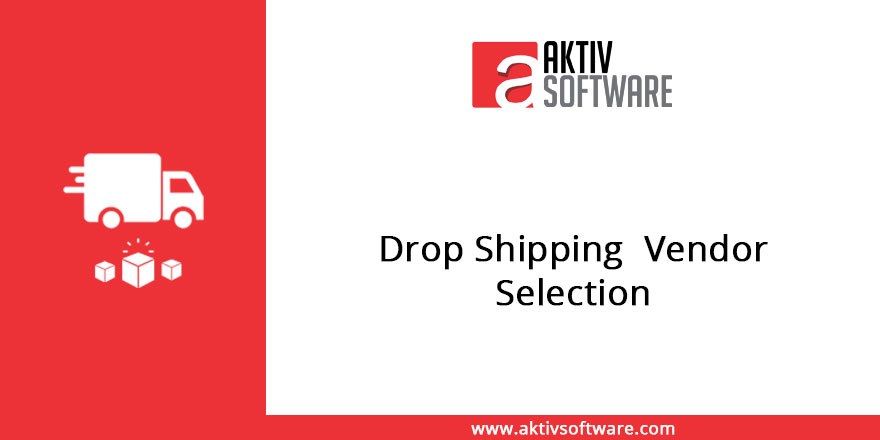
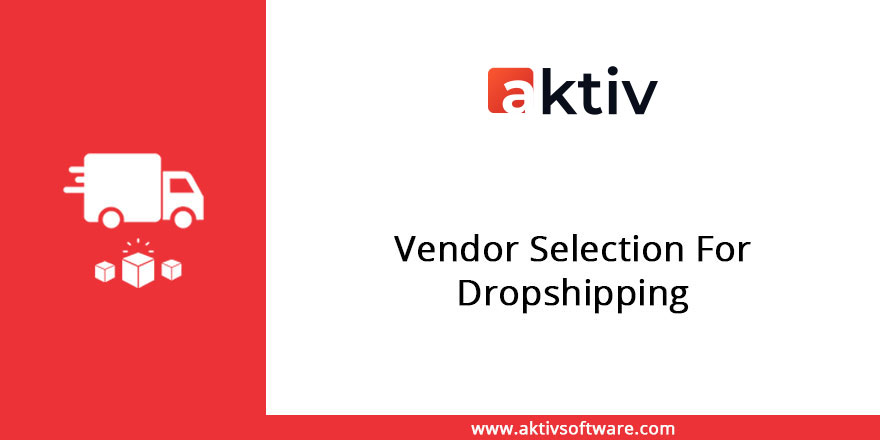
[commit] commit in master branch

Changed region(s): [[0.4295, 0.5318, 0.8898, 0.7091], [0.5216, 0.0886, 0.767, 0.2659]]

diff --git a/vendor_selection/static/description/index.html b/vendor_selection/static/description/index.html
@@ -1,84 +1,110 @@
-<section class="oe_container oe_dark">
-	<div class="oe_row oe_padded">
+<section class="oe_container">
+    <div class="oe_row oe_centered">
+        <div class="oe_span_10 oe_centered">
+            <h4 class="oe_slogan" style="margin-left: 120px;"><b><span class="fa fa-star fa-spin"></span>
+                    Vendor Selection </span></b></h4>
+        </div>
+    </div>
 
-		<div class="panel-heading"
-			style="padding: 8px; font-weight: 300; font-size: 20px; background-color: #004460;">
-			<i class="fa fa-cog" style="color: white;"></i> <b
-				style="color: white;">Installation</b>
-		</div>
-		<h2 class="oe_slogan oe_mt16"></h2>
-		<a href="https://www.odoo.com/apps/modules/11.0/vendor_selection/">Install
-			"Vendor Selection" Module from odoo Apps.</a> <br />
-		<br />
-		<br />
-		<div class="panel-heading"
-			style="padding: 8px; font-weight: 300; font-size: 20px; background-color: #004460;">
-			<i class="fa fa-cog" style="color: white;"></i> <b
-				style="color: white;">How it Works </b>
-		</div>
+    <p align="left">In the default Odoo module user could not choose vendor of his/her choice. The Odoo’s flow chose the vendor mentioned first in the list and hence user had to pay the price which is mentioned by the first vendor even if it was higher than the price set by other vendors in the list.</p>
 
-		<h2 class="oe_slogan oe_mt16">Configure Dropshipping
-			Functionality from the Purchase</h2>
-		<div class="oe_span12">
-			<div class="oe_row_img">
-				<img class="oe_picture oe_screenshot" src="enable_dropshipping.png">
-			</div>
-		</div>
-		<p>
-			<br />
-		</p>
+    <p align="left">The Vendor Selection modules allows you to select the vendor of your choice for drop shipping. User having rights to manage the sale order can add vendors for particular product. After configuring Order specific routes, multi-step routes and dropshipping when user creates the order he/she can select from the list of vendors for the selected product.  The final quotation will display the original price of the product as set by the selected vendor.</p>
 
-		<h2 class="oe_slogan oe_mt16">Enable Routes from the sales and
-			inventory</h2>
-		<div class="oe_span12">
-			<div class="oe_row_img">
-				<img class="oe_picture oe_screenshot" src="enable_routes.png">
-			</div>
-		</div>
-		<p>
-			<br />
-		</p>
+    <p align="left">Here are the primary features accomplished in this module:</p>
+
+    <div class="oe_centered">
+        <ul>
+            <li>Admin can add vendors.</li>
+            <li>User can select a vendor from the available list of vendors.</li>
+            <li>User can also configure the drop shipping route to enable route functionality.</li>
+            <li>When clicked on create order user can see two new tabs under <b>Order Lines</b> i.e. Route and Vendor.</li>
+        </ul>
+    </div>
+
+    <div class="oe_row oe_centered">
+        <div class="oe_span_10 oe_centered">
+            <h4 class="oe_slogan" style="margin-left: 120px;"><b><span class="fa fa-star fa-spin"></span>
+                    Prerequisites before Installation </span></b></h4>
+        </div>
+    </div>
+    <p align="left">No prerequisites required.</p>
 
 
-		<h2 class="oe_slogan oe_mt16">Add Vendors in Product</h2>
-		<div class="oe_span12">
-			<div class="oe_row_img">
-				<img class="oe_picture oe_screenshot" src="product_vendor.png">
-			</div>
-		</div>
-		<p>
-			<br />
-		</p>
+    <div class="oe_row oe_centered">
+        <div class="oe_span_10 oe_centered">
+            <h4 class="oe_slogan" style="margin-left: 120px;"><b><span class="fa fa-star fa-spin"></span>
+                    Configurations </span></b></h4>
+        </div>
+    </div>
 
-		<h2 class="oe_slogan oe_mt16">Create Sale order and select drop
-			shipping in sale order line and confirm so</h2>
-		<div class="oe_span12">
-			<div class="oe_row_img">
-				<img class="oe_picture oe_screenshot" src="add_vendor_in_line.png">
-			</div>
-		</div>
-		<p>
-			<br />
-		</p>
+    <div class="oe_centered">
+        <p>Configure DropShipping Functionality from the Purchase.</p>
+    </div>
+    <div class="oe_row oe_centered">
+        <div class="oe_span12">
+            <img src="enable_dropshipping.png" style="width: 100%;"/>
+        </div>
+    </div>
 
-		<h2 class="oe_slogan oe_mt16">Purchase order</h2>
-		<div class="oe_span12">
-			<div class="oe_row_img">
-				<img class="oe_picture oe_screenshot" src="po_tree.png">
-			</div>
-		</div>
-		<p>
-			<br />
-		</p>
-	</div>
+    <div class="oe_centered">
+        <p>Enable “Routes” from the Sales and Inventory.</p>
+    </div>
+    <div class="oe_row oe_centered">
+        <div class="oe_span12">
+            <img src="enable_routes.png" style="width: 100%;"/>
+        </div>
+    </div>
 
-	<h2 class="oe_slogan oe_mt16">Purchase order create as per selected vendor</h2>
-	<div class="oe_span12">
-		<div class="oe_row_img">
-			<img class="oe_picture oe_screenshot" src="po.png">
-		</div>
-	</div>
-	<p>
-		<br />
-	</p>
+    <div class="oe_centered">
+        <p>Create New Quotations and under the Order Lines Click on Add button to add vendors for various products.</p>
+    </div>
+    <div class="oe_row oe_centered">
+        <div class="oe_span12">
+            <img src="product_vendor.png" style="width: 100%;"/>
+        </div>
+    </div>
+
+    <div class="oe_centered">
+        <p>After configuring the dropshipping, you can see in the below image under the order lines there are tabs for route and vendor. From Vendor user can select vendor for the product from the available list of vendors selling that product.</p>
+    </div>
+    <div class="oe_row oe_centered">
+        <div class="oe_span12">
+            <img src="add_vendor_in_line.png" style="width: 100%;"/>
+        </div>
+    </div>
+
+    <div class="oe_centered">
+        <p>After the selection of Vendor for the product, quotation will display the selected vendor’s name as shown in the below image.</p>
+    </div>
+    <div class="oe_row oe_centered">
+        <div class="oe_span12">
+            <img src="po_tree.png" style="width: 100%;"/>
+        </div>
+    </div>
+
+    <div class="oe_centered">
+        <p>Hence the final quotation will display the price of product set by the selected vendor.</p>
+    </div>
+    <div class="oe_row oe_centered">
+        <div class="oe_span12">
+            <img src="po.png" style="width: 100%;"/>
+        </div>
+    </div>
+
+    <div class="oe_row oe_spaced">
+        <h2 class="oe_slogan">
+            <a href="http://aktivsoftware.com/" target="new">
+                <img src="aktiv-logo.png"/>
+            </a>
+            <br/>
+            <a href="mailto:sales@aktivsoftware.com" style="color: #000000 !important;">
+                        Get Help &amp; Support
+            </a>
+        </h2>
+        <div class="oe_slogan oe_spaced text-center">
+            <a class="btn btn success mt8" title="website" target="new" style="background-color:#ff4040;  color: #ffffff; !important; position:relative; overflow: hidden;" href="http://aktivsoftware.com/"><b>Website</b></a>
+            <a class="btn btn success mt8" title="Contact Us" style="background-color:#ff4040; color: #ffffff; !important; position:relative; overflow: hidden;" href="mailto:sales@aktivsoftware.com"><b>Contact Us</b></a>
+            <a class="btn btn success mt8" title="Request New Features Now!" style="background-color:#ff4040; color: #ffffff; !important; position:relative; overflow: hidden;" href="mailto:sales@aktivsoftware.com"><b>Request For New Features</b></a>
+        </div>
+    </div>
 </section>

diff --git a/vendor_selection/models/sale.py b/vendor_selection/models/sale.py
@@ -1,36 +1,37 @@
 # -*- coding: utf-8 -*-
 
-from odoo import models, fields, api, _
-from odoo.exceptions import UserError, AccessError
+from odoo import models, fields, api
 
 
 class SaleOrderLine(models.Model):
     _inherit = 'sale.order.line'
 
-
     vendor_id = fields.Many2one('product.supplierinfo', 'Vendor')
     is_route = fields.Boolean('Is Route', defualt=False)
-    
+    product_tmpl_id = fields.Many2one(related='product_id.product_tmpl_id',
+                                      string='Product Template',
+                                      store=True)
+
     @api.multi
     @api.onchange('route_id')
     def _onchange_route_id(self):
         if self.route_id:
             self.is_route = True
-            
-class ProcurementRule(models.Model):
-    _inherit = 'procurement.rule'
+
+
+class StockRule(models.Model):
+    _inherit = 'stock.rule'
 
     def _make_po_select_supplier(self, values, suppliers):
-        """ Method intended to be overridden by customized modules to implement any logic in the
+        """ Method intended to be overridden by customized
+        modules to implement any logic in the
             selection of supplier.
         """
-        print "\n\n values-------", values
-        print "\n\n rioute ids----",  values.get('route_ids')
         if values.get('route_ids'):
             so = self.env['sale.order.line'].browse(values.get('sale_line_id'))
             supplier = so.vendor_id or suppliers[0]
-            
+
             return supplier
         else:
-            return super(ProcurementRule, self)._make_po_select_supplier(values, suppliers)
-                     
+            return super(ProcurementRule, self)\
+                ._make_po_select_supplier(values, suppliers)

diff --git a/vendor_selection/__manifest__.py b/vendor_selection/__manifest__.py
@@ -1,30 +1,20 @@
 # -*- coding: utf-8 -*-
 {
-    'name': "Vendor Selection For Dropshipping",
-
-    'summary': """
-        Customer will select vendor as per his choice.""",
-
-    'description': """
-       Customer will select vendor as per his choice in sale order when customer choose drop shipping scenario.
-    """,
-
-    'author': "Aktiv software ",
-    'website': "http://www.aktivsoftware.com/",
-
-    
+    'name': 'Vendor Selection',
+    'summary': 'Customer will select vendor as per his choice.',
+    'website': 'http://www.aktivsoftware.com',
+    'description': 'Customer will select vendor as per his choice in sale order \
+        when customer choose drop shipping scenario.',
+    'license': 'AGPL-3',
+    'author': 'Aktiv Software',
     'category': 'Sales',
-    'version': '0.1',
-
-    # any module necessary for this one to work correctly
-    'depends': ['sale_management', 'purchase'],
-
-    # always loaded
+    'version': '12.0.1.0.0',
+    'depends': ['sale_management', 'purchase', 'stock'],
     'data': [
         'views/sale_order.xml',
     ],
-    
-
-   'images':  ['static/description/banner.jpg'],
-    'application': True,
+    'images': ['static/description/banner.jpg'],
+    'auto_install': False,
+    'installable': True,
+    'application': False
 }
